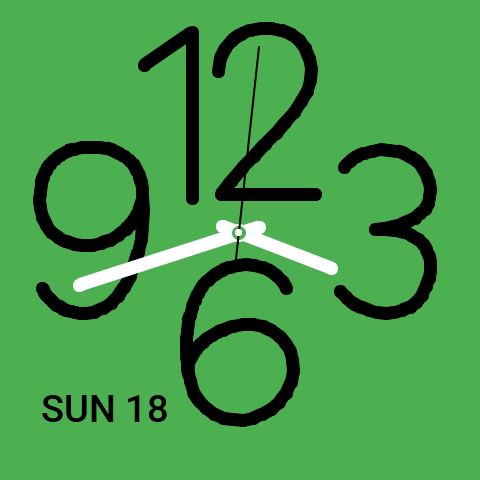
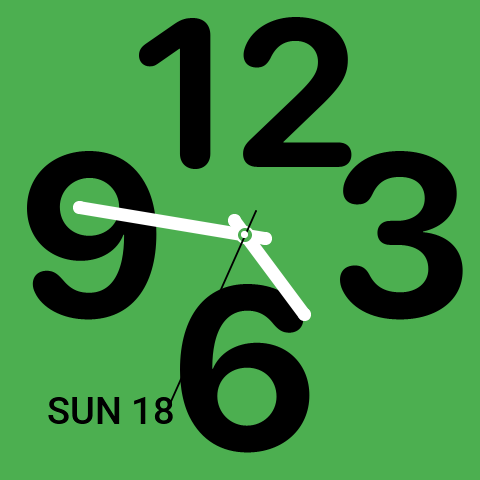
Publish verified rounded numeral previews [skip ci]

Changed region(s): [[0.0312, 0.0312, 0.9688, 0.9688]]

diff --git a/docs/VALIDATION.md b/docs/VALIDATION.md
@@ -24,7 +24,21 @@ code generation from standard upstream URLs. Its 80 screenshots cover eight scen
 CYD, Guition 4-inch, both 7-inch models and the 10.1-inch model. Fork-only timer and live-settings tests are no longer
 part of validation. Physical device checks remain necessary; a desktop render is not a hardware test.
 
-### Completed 0.4.2 validation
+### Completed 0.5.0 validation
+
+[CI run 39091127290](https://github.com/dark-matter-design/tessera-watch-clock-screensaver/actions/runs/39091127290)
+passed all five strict upstream firmware benches, native coverage/geometry tests, API 0.14 manifest checks, upstream
+ESP32 code generation and store-image generation for source revision `9dc922f`. Its combined report contains
+80 screenshots and zero findings. The smallest and largest displays in both themes, the square screen and store
+image were visually reviewed. The current PNGs are generated from this run. Physical panel performance and
+long-running redraw behaviour still require device testing.
+
[1 lines of base64/hex data omitted]
+It is not committed. The four extracted glyph groups contain 1,228 vector vertices and seven contours. Tests verify
+filled area against signed polygon area, preservation of holes, partial-alpha edges and equivalent clipped redraws
+at 20-, 80- and 257-pixel glyph heights. A separate layout check found no opaque overlap between adjacent numerals.
+
+### Previous 0.4.2 validation
 
 The current vector-numeral version passed [CI run 39087252954](https://github.com/dark-matter-design/tessera-watch-clock-screensaver/actions/runs/39087252954)
 for source revision `48c84fc` on 18 October 2026 (Australia/Sydney): all five strict upstream firmware benches,
